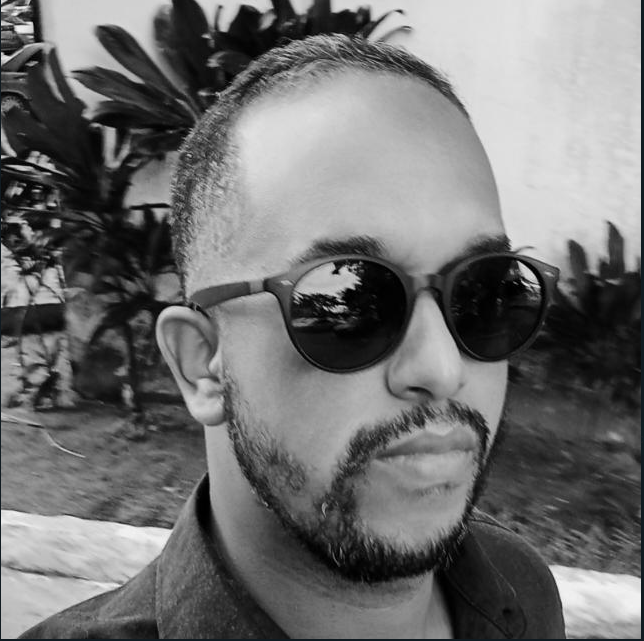
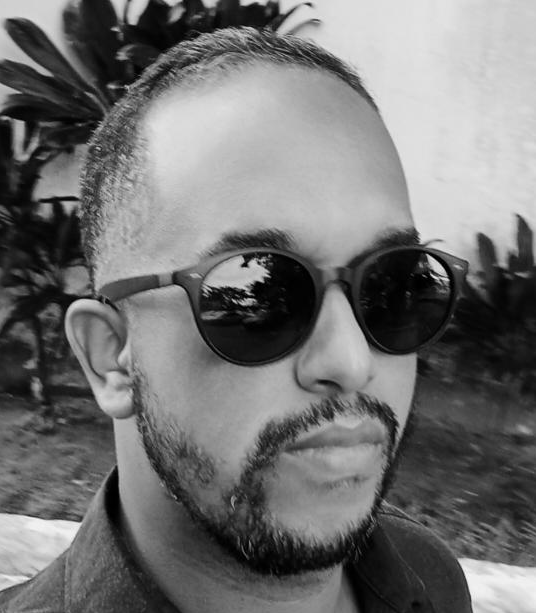
site da alura

diff --git a/Portifolio-HTML-e-CSS-Curso3-aula_4/index.html b/Portifolio-HTML-e-CSS-Curso3-aula_4/index.html
@@ -22,7 +22,7 @@
             class="titulo-destaque">com um Front-end de qualidade!
             </strong></h1>
             <p class="apresentacao__conteudo__texto">
-                Olá! Sou Joana Santos, desenvolvedora
+                Olá! Sou Antonio Carlos, desenvolvedor
                 Front-end com especialidade em React, HTML e
                 CSS. Ajudo pequenos negócios e designers a
                 colocarem em prática boas ideias. Vamos
@@ -30,24 +30,21 @@
             </p>
             <div class="apresentacao__links">
                 <h2 class="apresentacao__links__subtitulo">Acesse minhas redes</h2>
-                <a class="apresentacao__links__link" href="https://github.com/rafaballerini">
+                <a class="apresentacao__links__link" href="https://github.com/Carllosdodev" target="_blank">
                     <img src="./assets/github.png">
                     Github
                 </a>
-                <a class="apresentacao__links__link" href="https://linkedin.com/in/rafaellaballerini">
+                <a class="apresentacao__links__link" href="https://www.linkedin.com/in/antonio-carlos-b75a72280/" target="_blank">
                     <img src="./assets/linkedin.png">
                     linkedin
                 </a>
-                <a class="apresentacao__links__link" href="https://twitch.tv/guilimadev">
-                    <img src="./assets/twitch.png">
-                    Twitch
-                </a>
+
             </div>
         </section>
-        <img class="apresentacao__imagem" src="./assets/imagem.png" alt="Foto da Joana Santos programando">
+        <img class="apresentacao__imagem" src="./assets/img_antonio.png" alt="Foto de antonio carlos ">
     </main>
     <footer class="rodape">
-        <p>Desenvolvido por Alura.</p>
+        <p>&copy; 2024 Desenvolvido por Antonio Carlos.</p>
     </footer>
 </body>
 

diff --git a/Portifolio-HTML-e-CSS-Curso3-aula_4/styles/style.css b/Portifolio-HTML-e-CSS-Curso3-aula_4/styles/style.css
@@ -35,6 +35,11 @@ body {
     color: var(--cor-terciaria);
     text-decoration: none;
 }
+
+.cabecalho__menu__link:hover{
+    transform: scale(1.1);
+    transition: 1ms;
+}
 .apresentacao{
     padding: 5% 15%;
     display: flex;
@@ -52,12 +57,18 @@ body {
     font-size: 36px;
     font-family: var(--fonte-primaria);
 }
+
+.apresentacao__conteudo__sobre {
+    line-height: 1.8;
+}
+
 .titulo-destaque{
     color: var(--cor-terciaria);
 }
 .apresentacao__conteudo__texto{
     font-size: 24px;
     font-family: var(--fonte-secundaria);
+    
 }
 
 .apresentacao__links{
@@ -96,7 +107,12 @@ body {
 }
 
 .apresentacao__imagem {
-    width: 50%;
+    
+    border-radius: 10px;
+    box-shadow: 10px 10px var(--cor-terciaria);
+
+    
+    
 }
 
 .rodape{
@@ -128,10 +144,12 @@ body {
     }
 
     .apresentacao__imagem {
-        margin-bottom: 60px;
+        margin-bottom: 80px;
         margin-left: 0;
     }
 }
+
+
 
 @media (max-width: 430px) {
     .apresentacao__links,
@@ -142,7 +160,7 @@ body {
         gap: 30px;
     }
     .apresentacao__conteudo__titulo{
-        font-size: 1.9rem;
+        font-size: 1.5rem;
     }
     .apresentacao__conteudo__texto,
     .apresentacao__links__subtitulo {

diff --git a/Portifolio-HTML-e-CSS-Curso3-aula_4/about.html b/Portifolio-HTML-e-CSS-Curso3-aula_4/about.html
@@ -17,15 +17,15 @@
 
     <main class="apresentacao">
         <section class="apresentacao__conteudo__titulo">
-            <h1>Sobre mim</h1>
+            <h1 class="apresentacao__conteudo__sobre">Sobre mim </h1>
             <p class="apresentacao__conteudo__texto">Lorem ipsum dolor sit amet consectetur adipisicing elit. Facilis quia aliquam aut praesentium officiis nihil excepturi iusto cupiditate possimus maxime! Perspiciatis error earum nihil suscipit pariatur voluptatum voluptatem facilis vero?</p>
             <p class="apresentacao__conteudo__texto">Lorem ipsum dolor sit amet consectetur adipisicing elit. Facilis quia aliquam aut praesentium officiis nihil excepturi iusto cupiditate possimus maxime! Perspiciatis error earum nihil suscipit pariatur voluptatum voluptatem facilis vero?</p>
         </section>
 
-        <img src="./assets/imagem.png" alt="Foto da Joana Santos programando">
+        <img class="apresentacao__imagem" src="./assets/img_antonio.png" alt="Foto da antonio carlos">
     </main>
     <footer class="rodape">
-        <p>Desenvolvido por Alura.</p>
+        <p>&copy; 2024 Desenvolvido por Antonio Carlos.</p>
     </footer>
 </body>
 </html>
